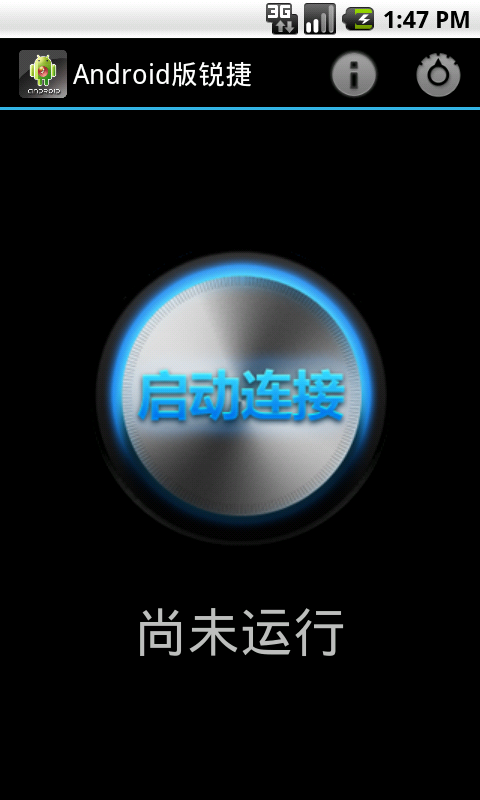
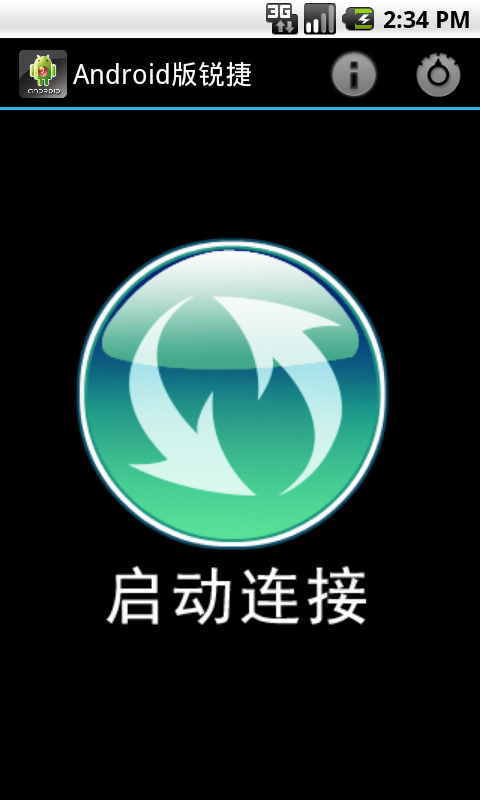
Update mentohust_switch button image.

Changed region(s): [[0.1562, 0.2812, 0.8125, 0.8438], [0.7812, 0.0, 0.9062, 0.0312]]

diff --git a/src/org/scauhci/android/mentohust/LoginActivity.java b/src/org/scauhci/android/mentohust/LoginActivity.java
@@ -63,7 +63,7 @@ public class LoginActivity extends SherlockActivity {
 		setContentView(R.layout.activity_login);
 
 		mentoSwitch = (CheckBox) findViewById(R.id.mentohust_switch);
-		mentoLogView = (TextView) findViewById(R.id.mentohust_log);
+		//mentoLogView = (TextView) findViewById(R.id.mentohust_log);
 		if (Mentohust.getPid() != Mentohust.NONE) {
 			mentoSwitch.setChecked(true);
 		}
@@ -80,7 +80,7 @@ public class LoginActivity extends SherlockActivity {
 		public void handleMessage(Message msg) {
 			super.handleMessage(msg);
 			String result = msg.getData().getString(LOG_KEY);
-			mentoLogView.setText(result);
+			//mentoLogView.setText(result);
 			if (result.equals(Mentohust.EXITED_STATUS)) {
 				mentoSwitch.setChecked(false);
 			} else {
